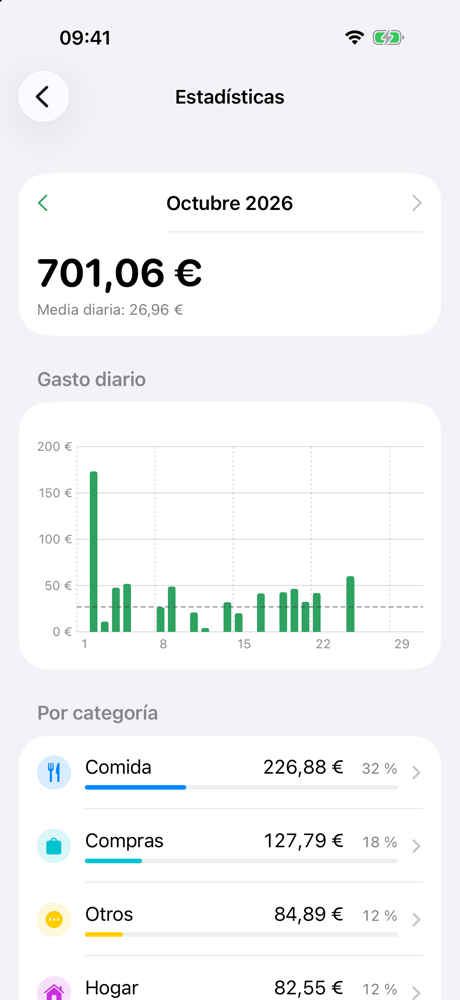
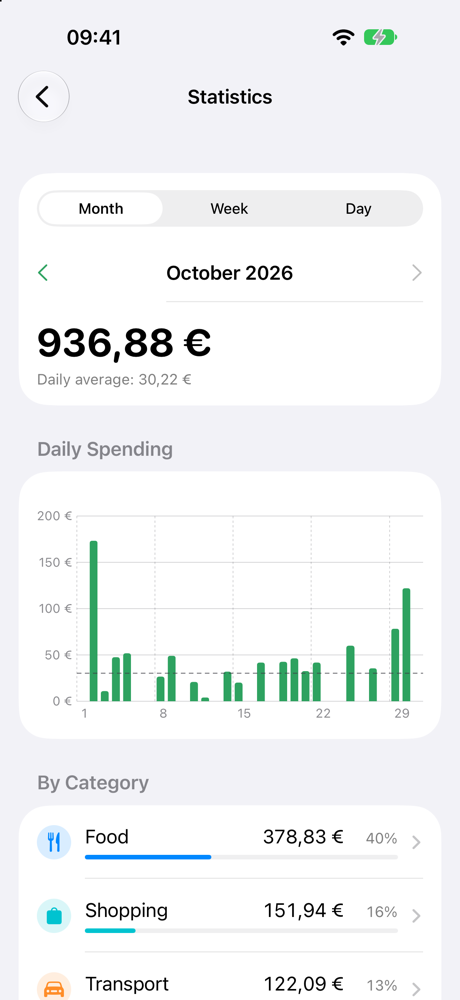
docs(readme): capturas actualizadas en una sola fila
Se sustituyen las capturas por cuatro nuevas en inglés (principal, añadir
gasto, estadísticas y widget mediano) y se eliminan las de filtros,
búsqueda, inicio de sesión y la segunda de estadísticas.

diff --git a/README.md b/README.md
@@ -4,15 +4,9 @@ A fast expense tracker for iPhone. Sign in with email and password and your expe
 
 <p align="center">
   <img src="docs/screenshots/main.png" width="200" alt="Main screen with the month's total, the comparison with the previous month and a daily spending chart">
-  <img src="docs/screenshots/add.png" width="200" alt="Add expense sheet with title, amount, category, payment method and date">
+  <img src="docs/screenshots/add.png" width="200" alt="Add expense sheet with title, amount, category, payment method, date and repeat">
   <img src="docs/screenshots/statistics.png" width="200" alt="Statistics screen with the month's total, daily spending chart and spending per category">
-  <img src="docs/screenshots/statistics-more.png" width="200" alt="Statistics screen with spending per payment method and the last six months">
-</p>
-<p align="center">
-  <img src="docs/screenshots/filters.png" width="200" alt="Filter menu with categories and payment methods">
-  <img src="docs/screenshots/search.png" width="200" alt="Search results for expenses matching a title">
-  <img src="docs/screenshots/widget.jpg" width="200" alt="Medium Home Screen widget with the month's chart and top categories">
-  <img src="docs/screenshots/signin.png" width="200" alt="Sign-in screen with email and password and a Demo button">
+  <img src="docs/screenshots/widget.png" width="200" alt="Medium Home Screen widget with the month's total, a daily chart and top categories">
 </p>
 
 ## Features
